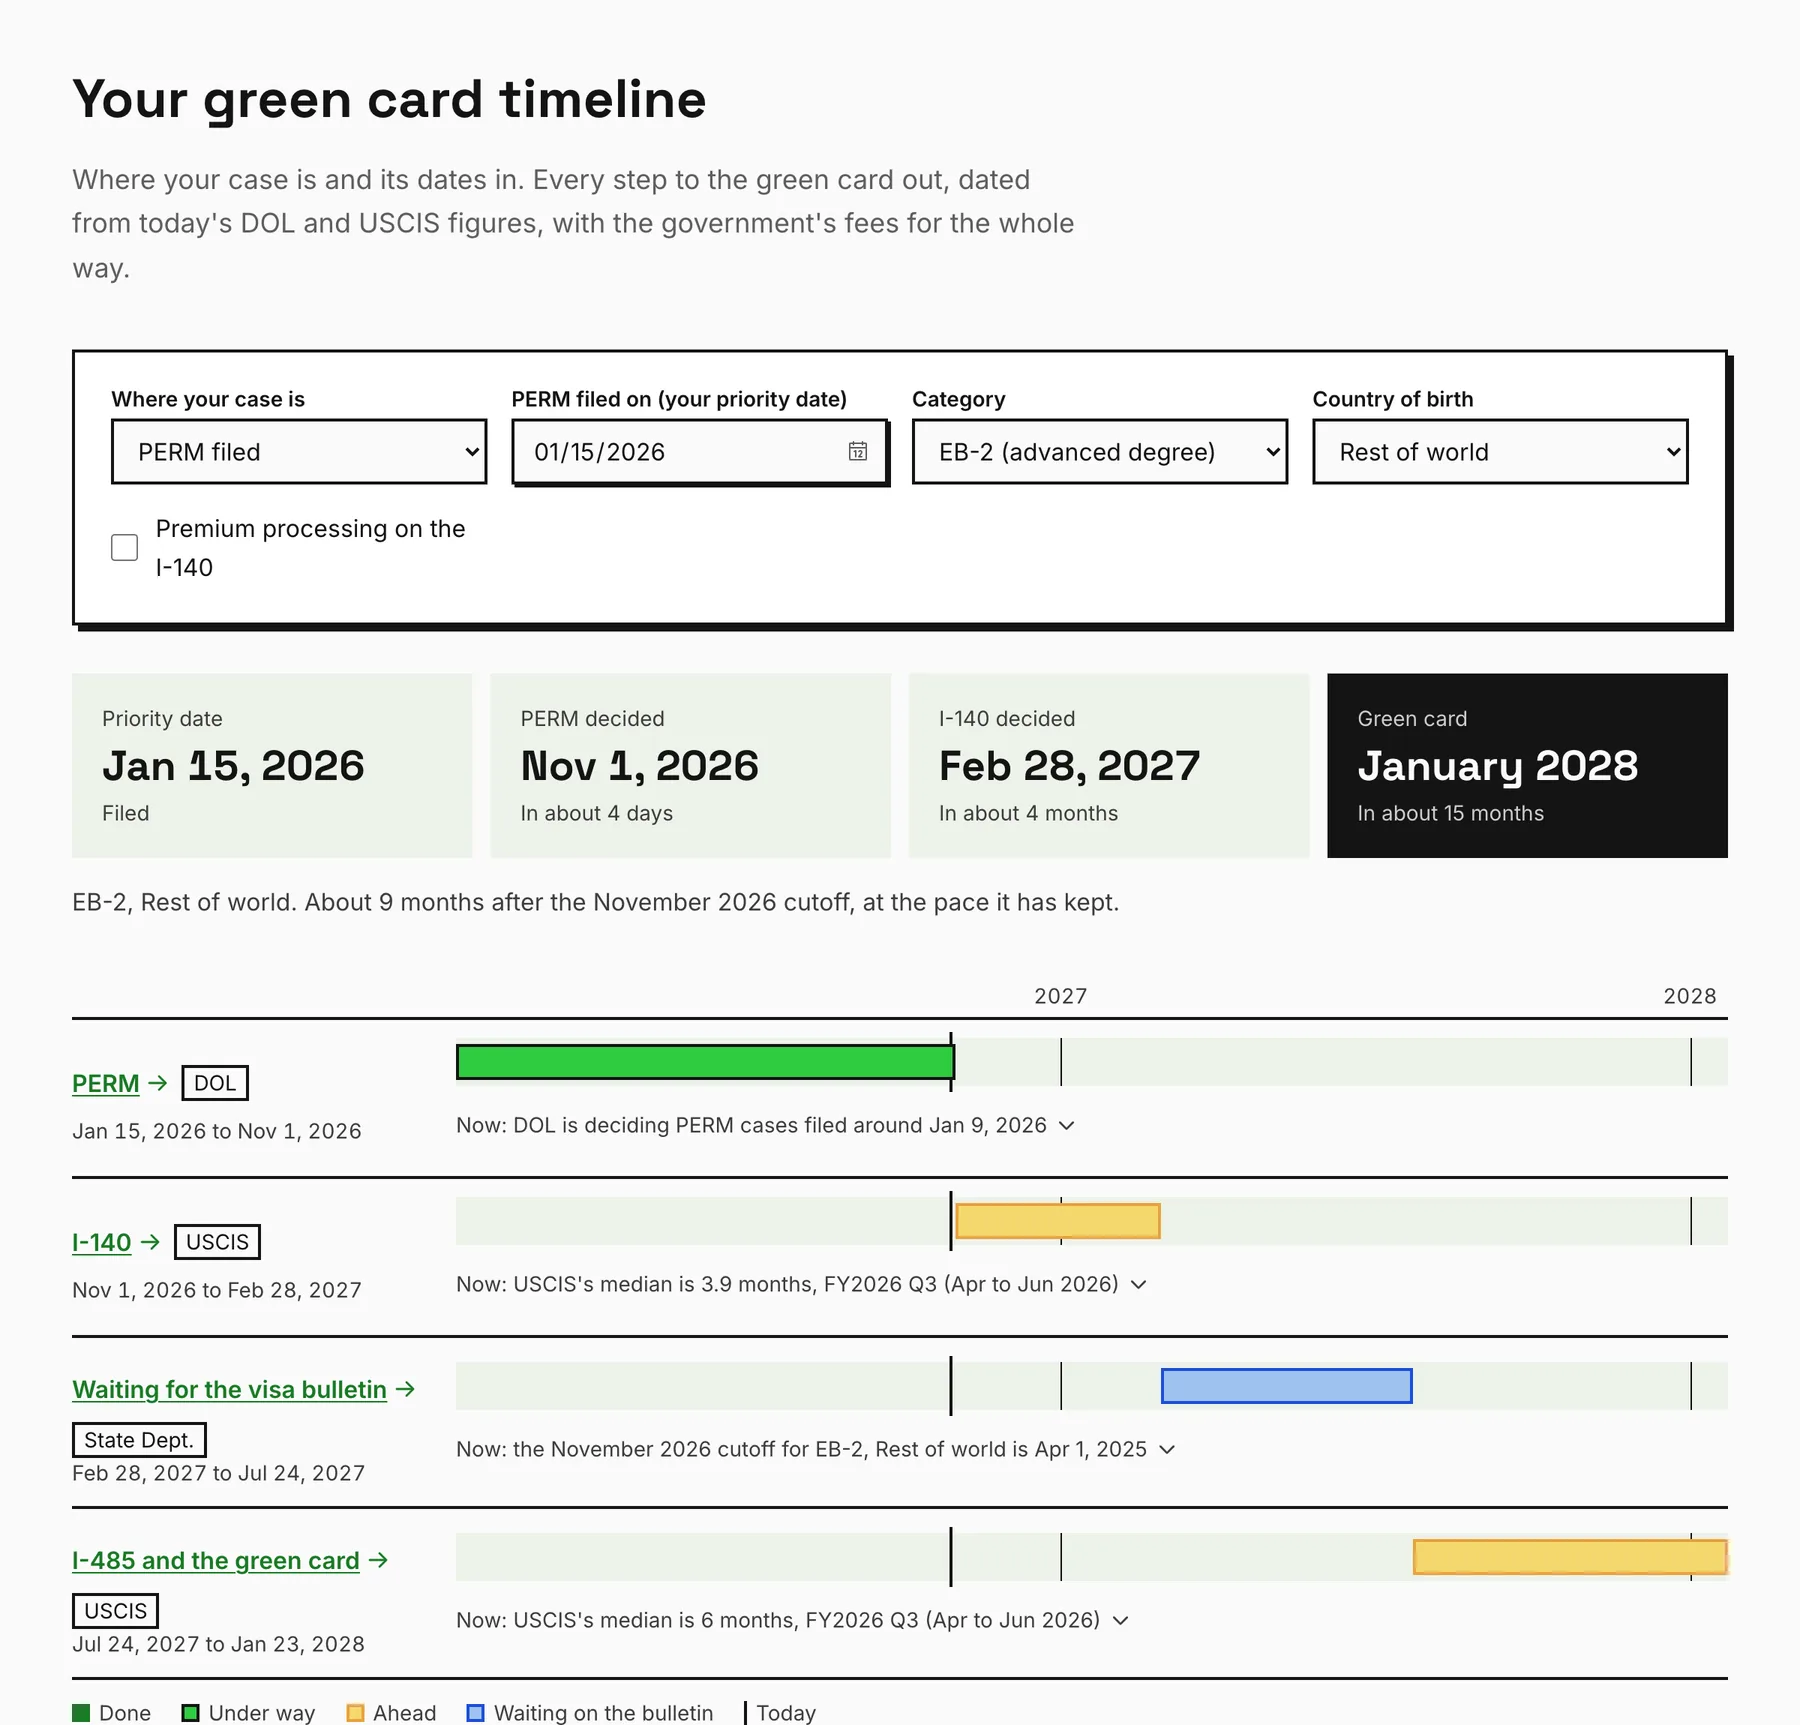
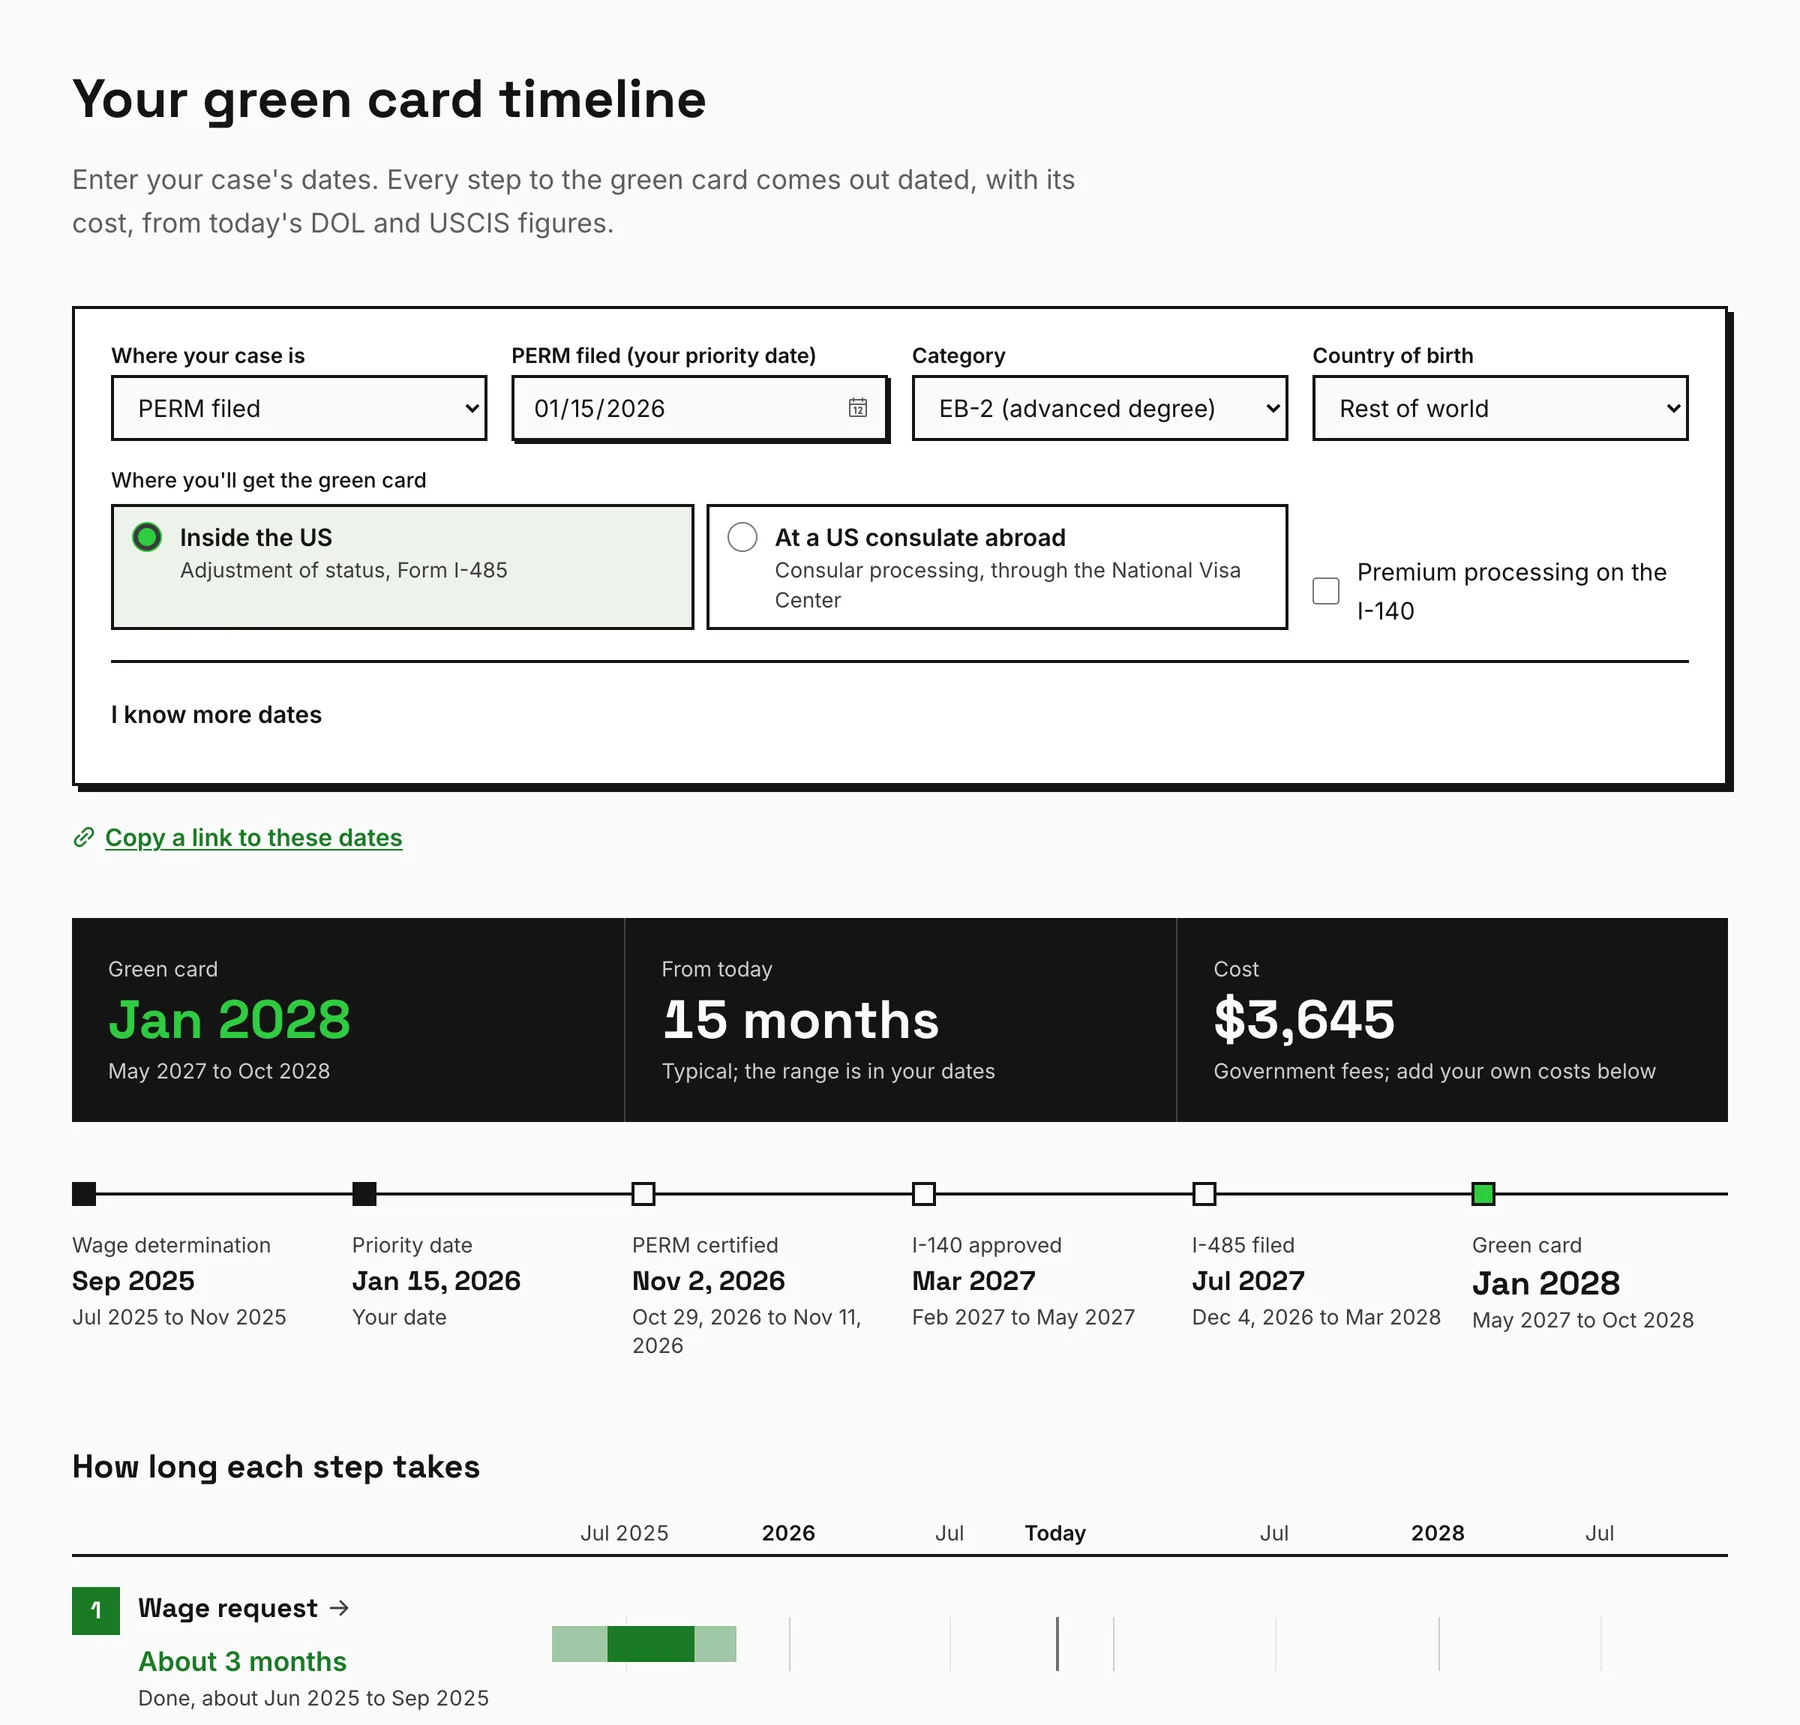
fix(pictures): the six changed pages' pictures retaken, each alt saying what it shows now
The data and calculator overviews showed processing times, wage requests, the I-140 and timeline
calculators, the visa bulletin and the planner as they were before this branch. The timeline
calculator printed DOL's date raw (2026-10-21); it reads as of Oct 21 now.

Claude-Session: https://claude.ai/code/session_01XYgdcpR3a27fwYMdTXZtsH

diff --git a/v2/src/components/tools/calculatorShots.ts b/v2/src/components/tools/calculatorShots.ts
@@ -9,7 +9,7 @@ export const CALCULATOR_SHOTS: Record<CalculatorShot, { shots: WindowShots; alt:
       light: { src: "/images/calculators/plan-light.webp", width: 1800, height: 1725 },
       dark: { src: "/images/calculators/plan-dark.webp", width: 1800, height: 1725 },
     },
-    alt: "The green card timeline for a sample PERM filed January 15, 2026, EB-2 rest of world: the PERM decided around November 1, 2026, the I-140 around February 28, 2027, the bulletin wait to July 2027 and the green card around January 2028, each step a bar on one time line with where DOL and USCIS stand today.",
+    alt: "The green card timeline for a sample PERM filed January 15, 2026, EB-2 rest of world: the PERM certified around November 2, 2026, the I-140 approved around March 2027, the I-485 filed around July 2027 and the green card around January 2028, 15 months from today, with $3,645 in government fees.",
     captured: "2026-10-28",
   },
   "pwd": {
@@ -31,14 +31,16 @@ export const CALCULATOR_SHOTS: Record<CalculatorShot, { shots: WindowShots; alt:
       light: { src: "/images/calculators/decision-light.webp", width: 1800, height: 1725 },
       dark: { src: "/images/calculators/decision-dark.webp", width: 1800, height: 1725 },
     },
-    alt: "The PERM processing time calculator for a case DOL received on January 15, 2026: most likely around Tuesday, November 3, 2026, between October 28 and November 12, at DOL's pace of 644 decisions a working day.",
+    alt: "The PERM processing time calculator for a case DOL received on January 15, 2026: most likely decided around Monday, November 2, 2026, in a window from October 29 to November 11, with DOL deciding 644 cases a working day and its queue at January 2026.",
+    captured: "2026-10-28",
   },
   "i140": {
     shots: {
       light: { src: "/images/calculators/i140-light.webp", width: 1800, height: 1725 },
       dark: { src: "/images/calculators/i140-dark.webp", width: 1800, height: 1725 },
     },
-    alt: "The I-140 queue calculator for advanced-degree petitions: 8,644 waiting, 12,477 decided last quarter, and USCIS's published time of 3 months.",
+    alt: "The I-140 queue calculator for advanced-degree petitions: 8,644 waiting and 12,477 decided last quarter, USCIS's published time of 3 months and its quarterly median of 3.9 months for every I-140, and the queue 2,999 petitions longer than the quarter before.",
+    captured: "2026-10-28",
   },
   "line": {
     shots: {

diff --git a/v2/src/components/tools/dataShots.ts b/v2/src/components/tools/dataShots.ts
@@ -17,15 +17,15 @@ export const DATA_SHOTS: Record<DataShot, { shots: WindowShots; alt: string; cap
       light: { src: "/images/data/wait-light.webp", width: 1800, height: 1725 },
       dark: { src: "/images/data/wait-dark.webp", width: 1800, height: 1725 },
     },
-    alt: "The PERM processing times page: DOL is reviewing applications filed in January 2026, 336 days on average to a determination, the audit review queue at December 2025 and wage requests at June 2026, as DOL published them on October 5, 2026.",
-    captured: "2026-10-21",
+    alt: "The PERM processing times page: about 336 days from filing to a decision by DOL's figure of October 21, 2026, DOL deciding cases filed in January 2026, the audit review queue at December 2025 and wage requests at June 2026.",
+    captured: "2026-10-28",
   },
   "pwd": {
     shots: {
       light: { src: "/images/data/pwd-light.webp", width: 1800, height: 1725 },
       dark: { src: "/images/data/pwd-dark.webp", width: 1800, height: 1725 },
     },
-    alt: "The wage requests page: 48,159 waiting at DOL now, 634,638 decided with the wage set and published through June 30, 2026, and DOL deciding requests filed in June 2026 as of September 30, 2026, with where DOL is in the line by filing month.",
+    alt: "The wage request page: PERM wage requests taking 3 to 4 months by DOL's figure of September 30, 2026, 47,494 waiting and 886,809 decided, DOL deciding requests filed in June 2026, and a search by employer.",
     captured: "2026-10-28",
   },
   "recruitment": {
@@ -65,8 +65,8 @@ export const DATA_SHOTS: Record<DataShot, { shots: WindowShots; alt: string; cap
       light: { src: "/images/data/line-light.webp", width: 1800, height: 1725 },
       dark: { src: "/images/data/line-dark.webp", width: 1800, height: 1725 },
     },
-    alt: "The visa bulletin page for November 2026: of 96 past bulletins first seen before their month, half were out by the 13th of the month before and nine in ten by the 22nd, drawn by day.",
-    captured: "2026-10-21",
+    alt: "The visa bulletin page: what the November 2026 bulletin did to every employment category and country, EB-2 rest of world moving 90 days to April 1, 2025, then what every earlier December bulletin did.",
+    captured: "2026-10-28",
   },
   "i140": {
     shots: {

diff --git a/v2/src/components/tools/PermTimelineEstimator.tsx b/v2/src/components/tools/PermTimelineEstimator.tsx
@@ -65,7 +65,7 @@ import { formatInt } from "@/lib/format";
 import { trackEstimateShown } from "@/lib/funnelEvents";
 import { buttonVariants } from "@/components/ui/button";
 import { CaveatBox } from "@/components/ui/note";
-import { ISO_MONTH_RE } from "@convex/lib/months";
+import { ISO_MONTH_RE, longDate, monthDay } from "@convex/lib/months";
 
 export interface PermTimelineEstimatorProps {
   frontier: DolFrontier | null;
@@ -820,7 +820,7 @@ export function PermTimelineEstimator({
                   {formatMonth(frontier.analystQueueMonth)}
                 </p>{" "}
                 <p className="mt-1 text-sm text-muted-foreground">
-                  DOL analyst review, {frontier.asOf}
+                  DOL analyst review, as of {monthDay(frontier.asOf) ?? frontier.asOf}
                 </p>
               </div>
             ) : null}
@@ -870,7 +870,7 @@ export function PermTimelineEstimator({
           <p className="mt-2 text-base leading-relaxed text-muted-foreground">
             DOL&apos;s analyst review queue is working{" "}
             <strong>{formatMonth(frontier.analystQueueMonth)}</strong>, as of{" "}
-            {frontier.asOf}.
+            {longDate(frontier.asOf) ?? frontier.asOf}.
             {estimate.monthsBehindFrontier !== null && estimate.monthsBehindFrontier > 0
               ? ` Your month is ${estimate.monthsBehindFrontier} further on.`
               : ""}
